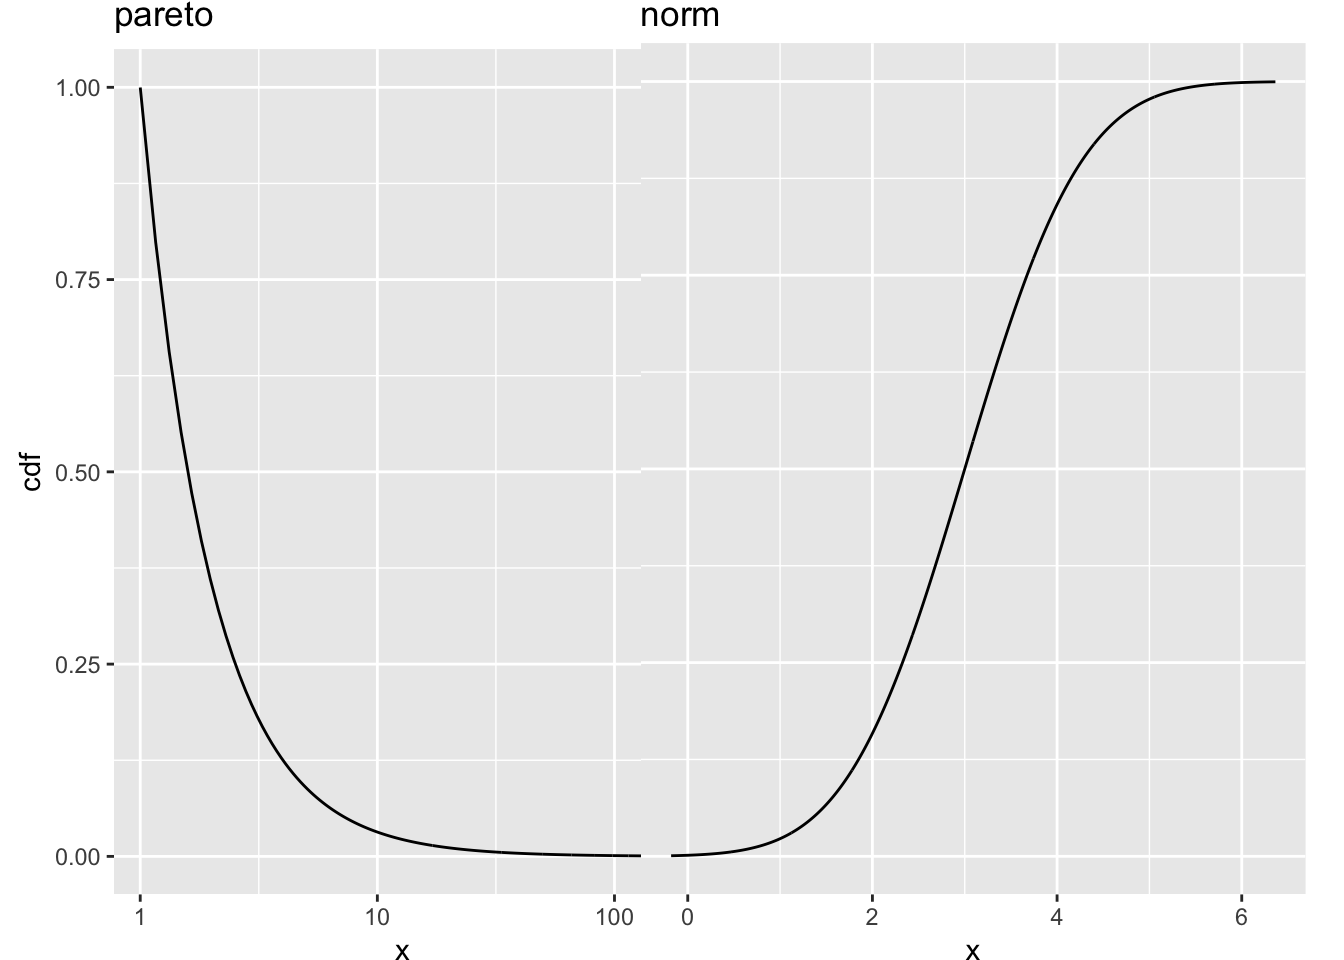
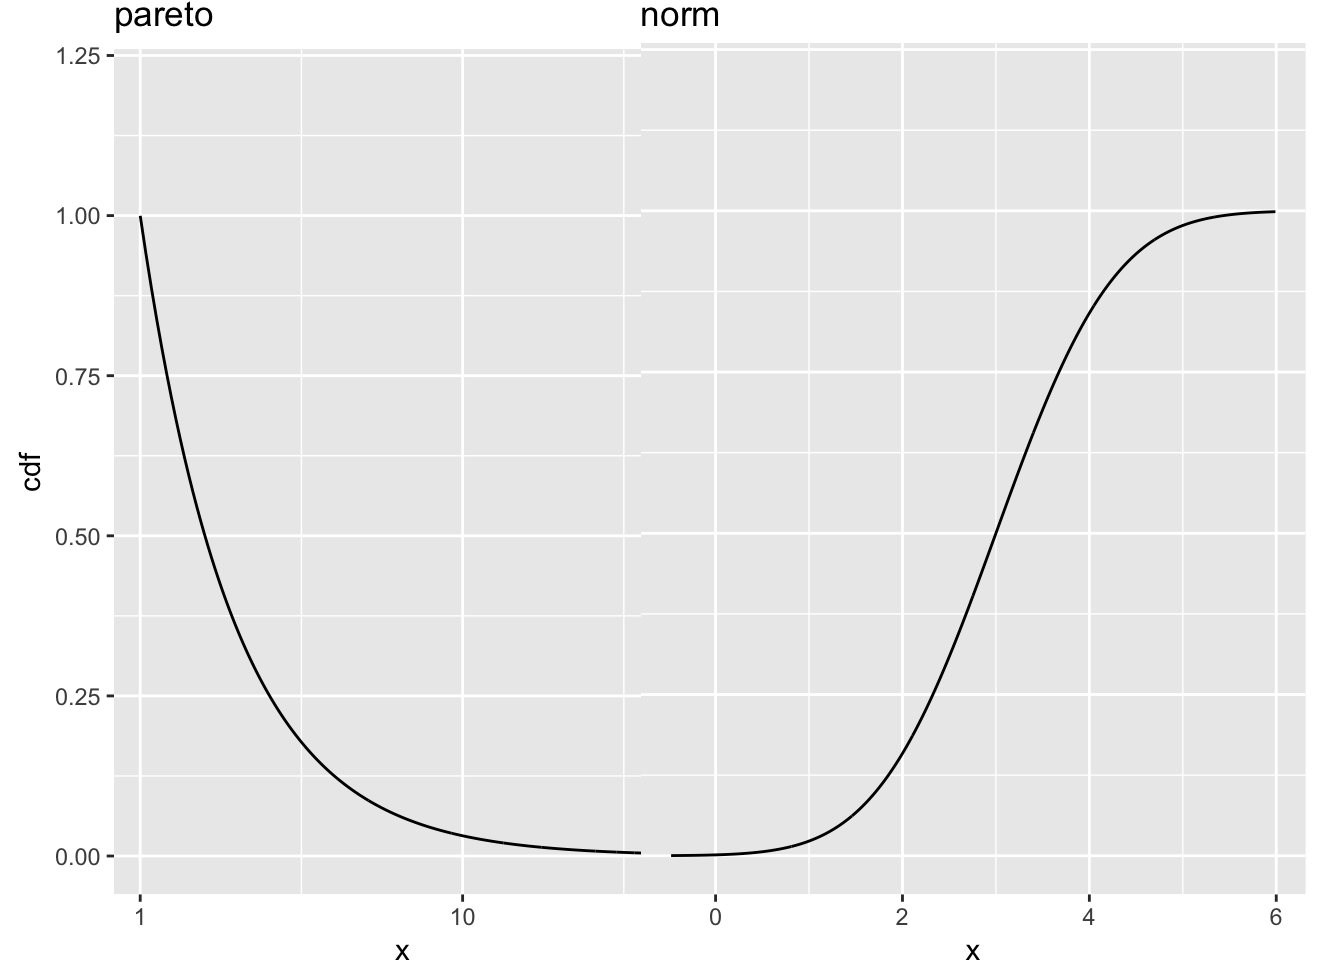
revise detail

diff --git a/public/post/what-i-want-to-tell-about-my-research/index.html b/public/post/what-i-want-to-tell-about-my-research/index.html
@@ -19,7 +19,7 @@
   
   <meta name="description" content="About primates, what do I want to tell the others?
 It is about biodiversity, evolution, and human beings.
-To me, the gibbon is only one of the five hundreds of primate species, and the primates are only five hundreds of the ten millions animal species.
+To me, the gibbon is only one of the five hundreds of primate species, and the primates are only five hundreds of the ten millions of animal species.
 In Yunnan, most primates dwelled on forests. So all the stories can not happen without refering to forests. In case of we seeing a monkey or gibbon move in tree canopy, we want to know where they are going and what they are going to do.">
 
   
@@ -84,7 +84,7 @@ In Yunnan, most primates dwelled on forests. So all the stories can not happen w
   <meta property="og:title" content="What I want to tell about my research | LEARNING FROM APES">
   <meta property="og:description" content="About primates, what do I want to tell the others?
 It is about biodiversity, evolution, and human beings.
-To me, the gibbon is only one of the five hundreds of primate species, and the primates are only five hundreds of the ten millions animal species.
+To me, the gibbon is only one of the five hundreds of primate species, and the primates are only five hundreds of the ten millions of animal species.
 In Yunnan, most primates dwelled on forests. So all the stories can not happen without refering to forests. In case of we seeing a monkey or gibbon move in tree canopy, we want to know where they are going and what they are going to do.">
   <meta property="og:locale" content="en-us">
   
@@ -273,7 +273,7 @@ In Yunnan, most primates dwelled on forests. So all the stories can not happen w
   
   <span class="middot-divider"></span>
   <span class="article-reading-time">
-    1 min read
+    2 min read
   </span>
   
 
@@ -347,11 +347,15 @@ In Yunnan, most primates dwelled on forests. So all the stories can not happen w
     <div class="article-style" itemprop="articleBody">
       <p>About primates, what do I want to tell the others?</p>
 <p>It is about biodiversity, evolution, and human beings.</p>
-<p>To me, the gibbon is only one of the five hundreds of primate species, and the primates are only five hundreds of the ten millions animal species.</p>
+<p>To me, the gibbon is only one of the five hundreds of primate species, and the primates are only five hundreds of the ten millions of animal species.</p>
 <p>In Yunnan, most primates dwelled on forests. So all the stories can not happen without refering to forests. In case of we seeing a monkey or gibbon move in tree canopy, we want to know where they are going and what they are going to do.</p>
-<p>But the answers to these questions are difficult to get, we have to use some techniques and pay much efforts. From the simplest way to the most difficult way.</p>
-<p>At the begining, I was thinking if I can catch one, and ask him questions.</p>
-<p>this revealed their adaptation to forest living.</p>
+<p>But the answers to these questions are difficult to get, we have to use some techniques and pay much efforts. From the simplest to the most difficult.</p>
+<p>At the begining, I was thinking if I can catch one, and ask him the questions. Of course it is not true, even I catch one, the monkey does not speak.</p>
+<p>What I have to do is doing research in scientific way, and resolve the questions.</p>
+<p>“Where are you going?” To answer this question, I have to follow the gibbon group for all days. Then I find out, they are heading to valley to forage ripe fruits; they are going to mountain ridge to bathe in the sun；they are going to patrol the habitat.</p>
+<p>“What are you doing?” To answer the question, I have to observe them. Then I find out, they are foraging specific nutrient, such as protein; they sing every day for inter-group communication; they choose a proper and flat canopy for playing, which are important activity during their development stage.</p>
+<p>For year and year, the answers reveal their adaptation to forest living.</p>
+<p>Why they exist, like all the lives, for inheritance of gene, mutation and their culture.</p>
 
     </div>
 

diff --git a/content/post/2018-03-19-what-i-want-to-tell-about-my-research.html b/content/post/2018-03-19-what-i-want-to-tell-about-my-research.html
@@ -8,15 +8,19 @@ categories:
 tags:
   - Step work
 summary:
-  - "It should be information in the simplest way"
+  "It should be information in the simplest way"
 ---
 
 
 
 <p>About primates, what do I want to tell the others?</p>
 <p>It is about biodiversity, evolution, and human beings.</p>
-<p>To me, the gibbon is only one of the five hundreds of primate species, and the primates are only five hundreds of the ten millions animal species.</p>
+<p>To me, the gibbon is only one of the five hundreds of primate species, and the primates are only five hundreds of the ten millions of animal species.</p>
 <p>In Yunnan, most primates dwelled on forests. So all the stories can not happen without refering to forests. In case of we seeing a monkey or gibbon move in tree canopy, we want to know where they are going and what they are going to do.</p>
-<p>But the answers to these questions are difficult to get, we have to use some techniques and pay much efforts. From the simplest way to the most difficult way.</p>
-<p>At the begining, I was thinking if I can catch one, and ask him questions.</p>
-<p>this revealed their adaptation to forest living.</p>
+<p>But the answers to these questions are difficult to get, we have to use some techniques and pay much efforts. From the simplest to the most difficult.</p>
+<p>At the begining, I was thinking if I can catch one, and ask him the questions. Of course it is not true, even I catch one, the monkey does not speak.</p>
+<p>What I have to do is doing research in scientific way, and resolve the questions.</p>
+<p>“Where are you going?” To answer this question, I have to follow the gibbon group for all days. Then I find out, they are heading to valley to forage ripe fruits; they are going to mountain ridge to bathe in the sun；they are going to patrol the habitat.</p>
+<p>“What are you doing?” To answer the question, I have to observe them. Then I find out, they are foraging specific nutrient, such as protein; they sing every day for inter-group communication; they choose a proper and flat canopy for playing, which are important activity during their development stage.</p>
+<p>For year and year, the answers reveal their adaptation to forest living.</p>
+<p>Why they exist, like all the lives, for inheritance of gene, mutation and their culture.</p>

diff --git a/public/post/how-to-merge-to-graph-using-same-y-axis/index.html b/public/post/how-to-merge-to-graph-using-same-y-axis/index.html
@@ -355,8 +355,7 @@ df1 &lt;- data.frame(x=x_pareto,cdf=y_pareto)
 
 library(ggplot2)
 library(gridExtra)
-g1 &lt;- ggplot(df1,aes(x=x,y=cdf)) + geom_line() + scale_x_log10()+
-  theme(plot.margin = unit(c(0,-.5,0,.5), &quot;lines&quot;),
+g1 &lt;- ggplot(df1,aes(x=x,y=cdf)) + geom_line() + scale_x_log10()+ ylim(0,1.2)+  theme(plot.margin = unit(c(0,-.5,0,.5), &quot;lines&quot;),
             plot.background = element_blank()) +
       ggtitle(&quot;pareto&quot;)
 
@@ -367,7 +366,7 @@ x_norm &lt;- seq(from=min(norm),to=max(norm),length=1000)
 y_norm &lt;- pnorm(x_norm,mean=mean)
 df2 &lt;- data.frame(x=x_norm,cdf=y_norm)
 
-g2 &lt;- ggplot(df2,aes(x=x,y=cdf)) + geom_line()+
+g2 &lt;- ggplot(df2,aes(x=x,y=cdf)) + geom_line()+ ylim(0,1.2)+
   theme(axis.text.y = element_blank(), 
             axis.ticks.y = element_blank(), 
             axis.title.y = element_blank(),
@@ -382,7 +381,15 @@ G2 &lt;- ggplotGrob(g2)
 
 grid.arrange(G1, G2, ncol=2)</code></pre>
 <p><img src="/post/2018-03-16-how-to-merge-to-graph-using-same-y-axis_files/figure-html/unnamed-chunk-2-1.png" width="672" /></p>
-<p>Not exactly, but step forward.</p>
+<p>Not exactly, but step forward. Finally, I use <code>grid</code> method.</p>
+<pre class="r"><code>library(grid)
+grid.newpage()
+grid.draw(cbind(ggplotGrob(g1), ggplotGrob(g2),size = &quot;last&quot;))</code></pre>
+<p><img src="/post/2018-03-16-how-to-merge-to-graph-using-same-y-axis_files/figure-html/unnamed-chunk-3-1.png" width="672" /></p>
+<pre class="r"><code># library(gridExtra)
+# g &lt;- arrangeGrob(g1, g2,nrow=1) 
+# plot(g)</code></pre>
+<p>A great work!</p>
 
     </div>
 

diff --git a/content/post/2018-03-16-how-to-merge-to-graph-using-same-y-axis.html b/content/post/2018-03-16-how-to-merge-to-graph-using-same-y-axis.html
@@ -26,8 +26,7 @@ df1 &lt;- data.frame(x=x_pareto,cdf=y_pareto)
 
 library(ggplot2)
 library(gridExtra)
-g1 &lt;- ggplot(df1,aes(x=x,y=cdf)) + geom_line() + scale_x_log10()+
-  theme(plot.margin = unit(c(0,-.5,0,.5), &quot;lines&quot;),
+g1 &lt;- ggplot(df1,aes(x=x,y=cdf)) + geom_line() + scale_x_log10()+ ylim(0,1.2)+  theme(plot.margin = unit(c(0,-.5,0,.5), &quot;lines&quot;),
             plot.background = element_blank()) +
       ggtitle(&quot;pareto&quot;)
 
@@ -38,7 +37,7 @@ x_norm &lt;- seq(from=min(norm),to=max(norm),length=1000)
 y_norm &lt;- pnorm(x_norm,mean=mean)
 df2 &lt;- data.frame(x=x_norm,cdf=y_norm)
 
-g2 &lt;- ggplot(df2,aes(x=x,y=cdf)) + geom_line()+
+g2 &lt;- ggplot(df2,aes(x=x,y=cdf)) + geom_line()+ ylim(0,1.2)+
   theme(axis.text.y = element_blank(), 
             axis.ticks.y = element_blank(), 
             axis.title.y = element_blank(),
@@ -53,4 +52,12 @@ G2 &lt;- ggplotGrob(g2)
 
 grid.arrange(G1, G2, ncol=2)</code></pre>
 <p><img src="/post/2018-03-16-how-to-merge-to-graph-using-same-y-axis_files/figure-html/unnamed-chunk-2-1.png" width="672" /></p>
-<p>Not exactly, but step forward.</p>
+<p>Not exactly, but step forward. Finally, I use <code>grid</code> method.</p>
+<pre class="r"><code>library(grid)
+grid.newpage()
+grid.draw(cbind(ggplotGrob(g1), ggplotGrob(g2),size = &quot;last&quot;))</code></pre>
+<p><img src="/post/2018-03-16-how-to-merge-to-graph-using-same-y-axis_files/figure-html/unnamed-chunk-3-1.png" width="672" /></p>
+<pre class="r"><code># library(gridExtra)
+# g &lt;- arrangeGrob(g1, g2,nrow=1) 
+# plot(g)</code></pre>
+<p>A great work!</p>

diff --git a/public/index.html b/public/index.html
@@ -1599,7 +1599,7 @@ url('/img/headers/twoMales.jpg');
   
   <span class="middot-divider"></span>
   <span class="article-reading-time">
-    1 min read
+    2 min read
   </span>
   
 
@@ -1635,7 +1635,7 @@ url('/img/headers/twoMales.jpg');
   </h3>
   <div class="article-style" itemprop="articleBody">
     
-    <p>[It should be information in the simplest way]</p>
+    <p>It should be information in the simplest way</p>
     
   </div>
   <p class="read-more" itemprop="mainEntityOfPage">

diff --git a/public/post/index.html b/public/post/index.html
@@ -261,7 +261,7 @@
   
   <span class="middot-divider"></span>
   <span class="article-reading-time">
-    1 min read
+    2 min read
   </span>
   
 
@@ -297,7 +297,7 @@
   </h3>
   <div class="article-style" itemprop="articleBody">
     
-    <p>[It should be information in the simplest way]</p>
+    <p>It should be information in the simplest way</p>
     
   </div>
   <p class="read-more" itemprop="mainEntityOfPage">

diff --git a/public/categories/student/index.html b/public/categories/student/index.html
@@ -253,7 +253,7 @@
     <h2><a href="/post/what-i-want-to-tell-about-my-research/">What I want to tell about my research</a></h2>
     <div class="article-style">
       
-      [It should be information in the simplest way]
+      It should be information in the simplest way
       
     </div>
   </div>

diff --git a/public/tags/step-work/index.html b/public/tags/step-work/index.html
@@ -253,7 +253,7 @@
     <h2><a href="/post/what-i-want-to-tell-about-my-research/">What I want to tell about my research</a></h2>
     <div class="article-style">
       
-      [It should be information in the simplest way]
+      It should be information in the simplest way
       
     </div>
   </div>
